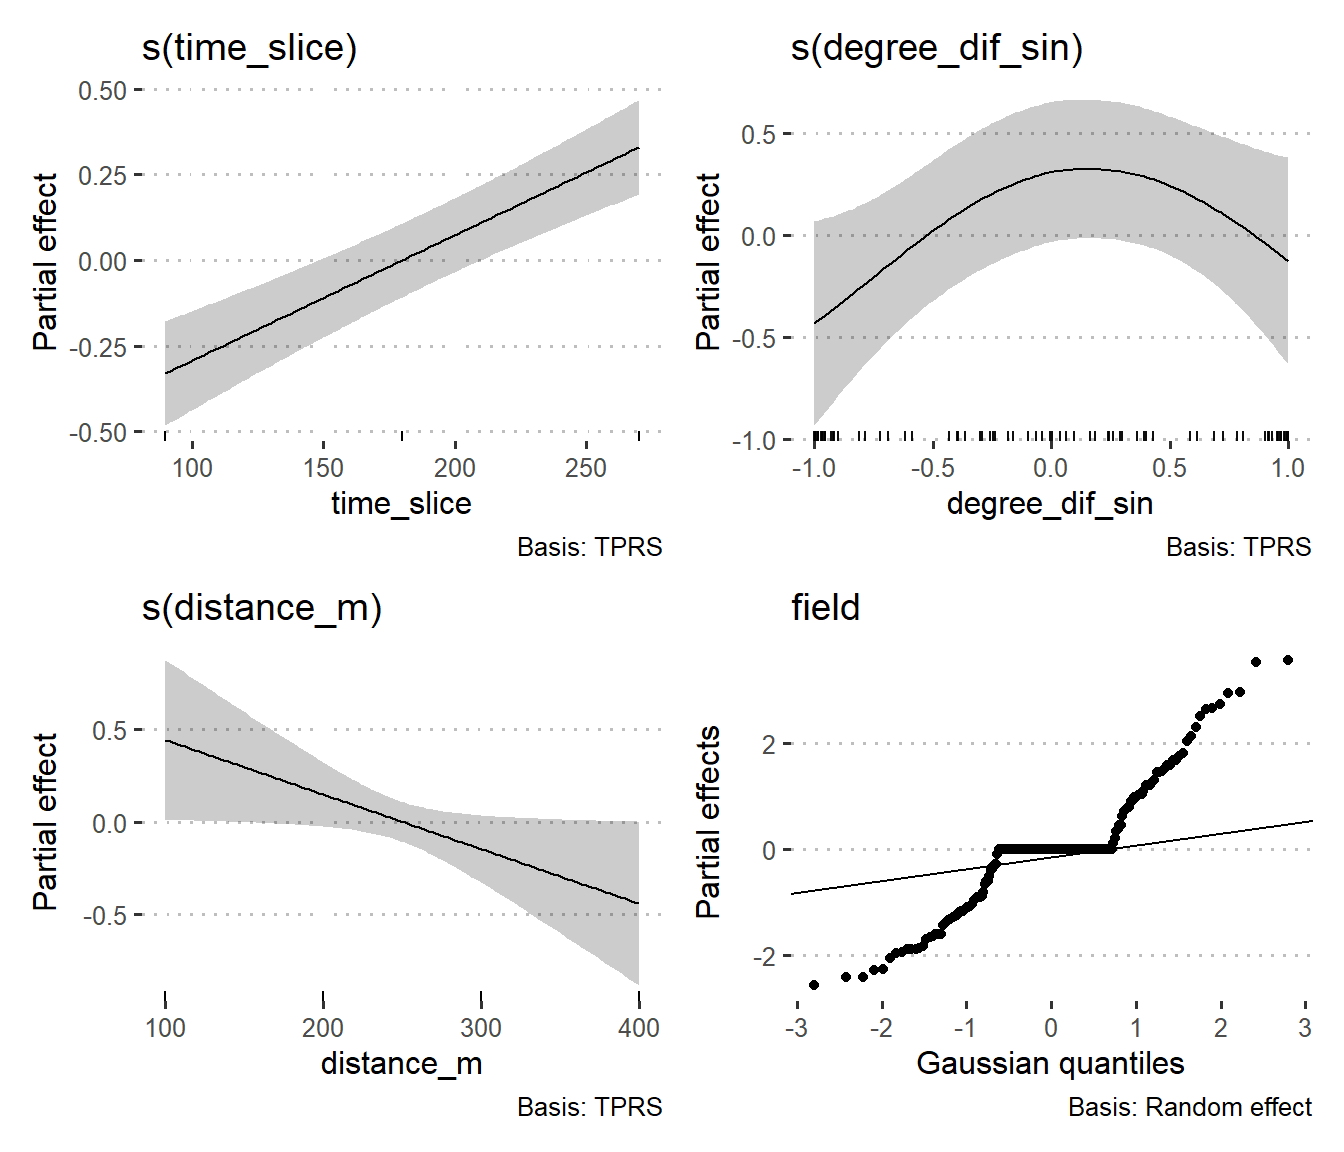
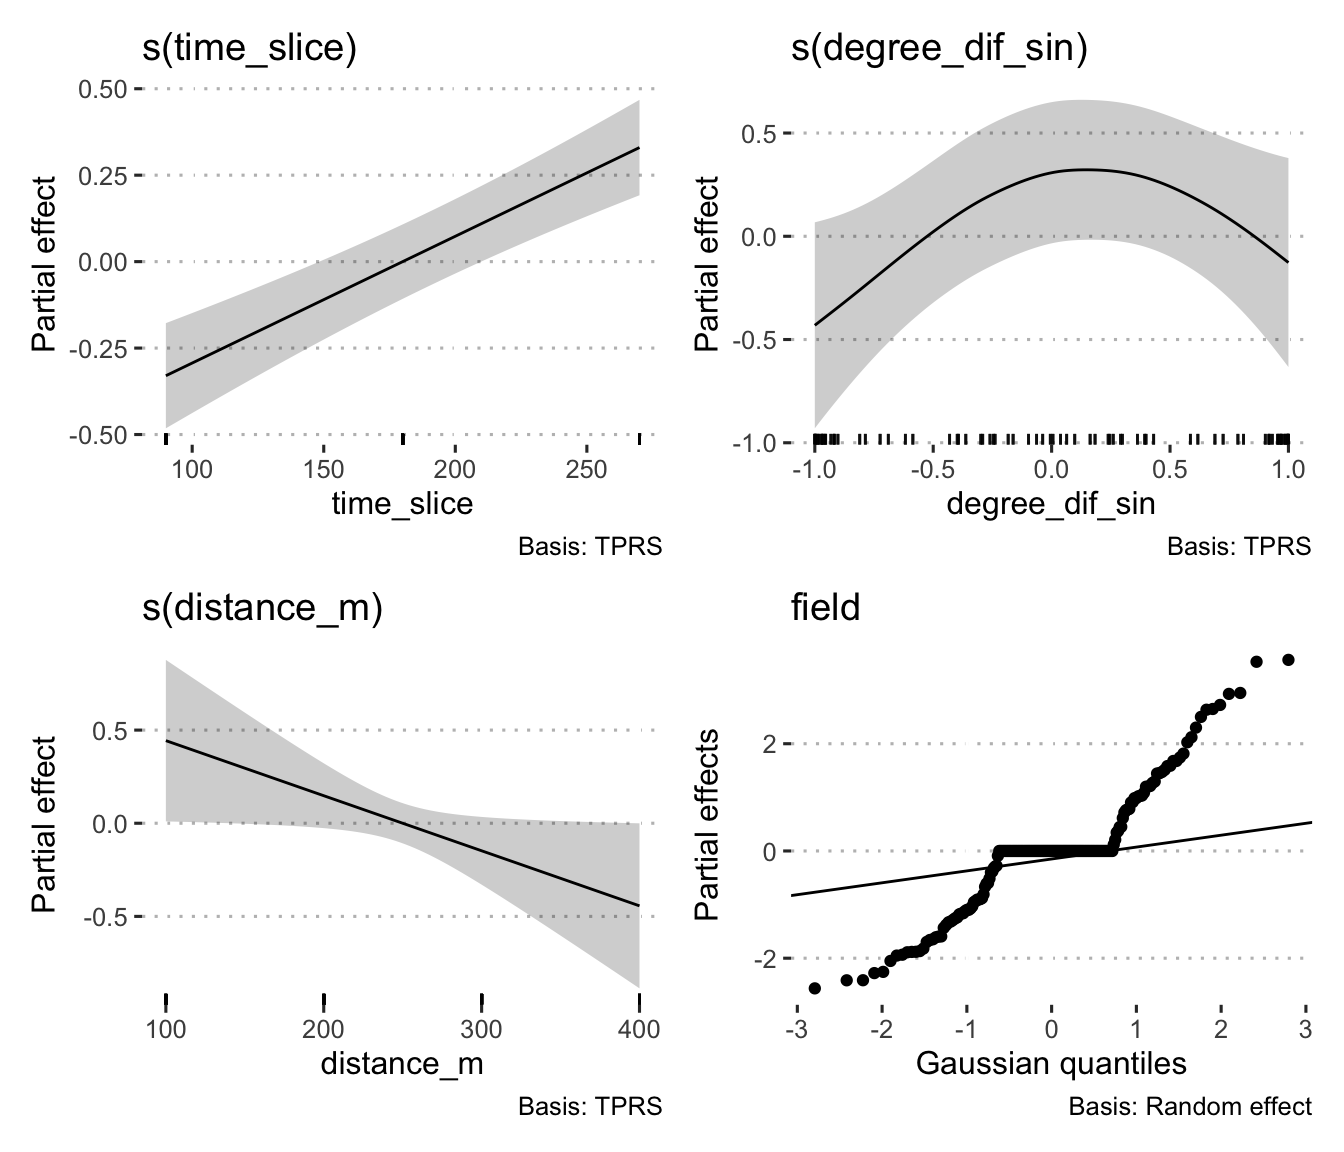
Update gam_model.Rmd to knit more easily and fix screenshot image

diff --git a/gam_model.html b/gam_model.html
@@ -401,6 +401,7 @@ theme_set(theme_pubclean())</code></pre>
 <div id="spore-proportion-chi-squared-analysis" class="section level2">
 <h2>Spore proportion chi-squared analysis</h2>
 <p>Check if the spore type, number of nuclei, affects the dispersal.</p>
+<p>(Manuscript´s section <code>Results/3.2</code>)</p>
 <pre class="r"><code>set.seed(3)
 read_csv(here(&quot;data/spore_type.csv&quot;),
          show_col_types = FALSE) %&gt;%
@@ -415,13 +416,17 @@ read_csv(here(&quot;data/spore_type.csv&quot;),
 ## 
 ## data:  .
 ## X-squared = 20.656, df = NA, p-value = 0.1959</code></pre>
+<p>The major spore type spread expected was the individual spore having
+a smaller spore size (18.8 µm); however, no statistical differences were
+recorded in spore type proportion at 0 m to 400 m downwind
+(P=0.1921).</p>
 </div>
 <div id="spore-dispersal-gam-model" class="section level2">
 <h2>Spore dispersal GAM Model</h2>
+<p>(Manuscript´s section <code>Results/3.3</code>)</p>
 <div id="load-data" class="section level3">
 <h3>Load data</h3>
-<pre class="r"><code>load(here(&quot;data/mod_dat.Rdata&quot;))
-load(here(&quot;data/newd.Rdata&quot;))</code></pre>
+<pre class="r"><code>load(here(&quot;data/mod_dat.Rdata&quot;))</code></pre>
 </div>
 <div id="inspect-the-mod_dat-object" class="section level3">
 <h3>Inspect the mod_dat object</h3>
@@ -438,19 +443,19 @@ load(here(&quot;data/newd.Rdata&quot;))</code></pre>
 ## # Groups:   field [6]
 ##    field trap_coord trap_degrees degree_dif wind_degrees wind_speed distance_m
 ##    &lt;fct&gt; &lt;chr&gt;             &lt;dbl&gt;      &lt;dbl&gt;        &lt;dbl&gt;      &lt;dbl&gt;      &lt;dbl&gt;
-##  1 1     N                     0     76.2          76.2        1.49        100
+##  1 1     N                     0    -76.2          76.2        1.49        100
 ##  2 1     E                    90     13.8          76.2        1.49        100
 ##  3 1     W                   270    194.           76.2        1.49        100
 ##  4 1     S                   180    104.           76.2        1.49        100
-##  5 2     N                     0    201.          201.         7.27        100
-##  6 2     E                    90    111.          201.         7.27        100
+##  5 2     N                     0   -201.          201.         7.27        100
+##  6 2     E                    90   -111.          201.         7.27        100
 ##  7 2     W                   270     68.7         201.         7.27        100
-##  8 2     S                   180     21.3         201.         7.27        100
-##  9 3     NE                   45     90.3         135.         2.93        100
-## 10 3     SE                  135      0.313       135.         2.93        100
+##  8 2     S                   180    -21.3         201.         7.27        100
+##  9 3     NE                   45    -90.3         135.         2.93        100
+## 10 3     SE                  135     -0.313       135.         2.93        100
 ## 11 3     NW                  315    180.          135.         2.93        100
 ## 12 3     SW                  225     89.7         135.         2.93        100
-## 13 4     N                     0     35.9          35.9        3.90        100
+## 13 4     N                     0    -35.9          35.9        3.90        100
 ## 14 4     E                    90     54.1          35.9        3.90        100
 ## 15 4     W                   270    234.           35.9        3.90        100
 ## 16 4     S                   180    144.           35.9        3.90        100
@@ -458,23 +463,27 @@ load(here(&quot;data/newd.Rdata&quot;))</code></pre>
 ## 18 5     SE                  135    105.           29.9        3.92        100
 ## 19 5     NW                  315    285.           29.9        3.92        100
 ## 20 5     SW                  225    195.           29.9        3.92        100
-## 21 6     N                     0      2.16          2.16       7.57        100
+## 21 6     N                     0     -2.16          2.16       7.57        100
 ## 22 6     E                    90     87.8           2.16       7.57        100
 ## 23 6     W                   270    268.            2.16       7.57        100
 ## 24 6     S                   180    178.            2.16       7.57        100</code></pre>
 <p>Based on the use of AIC to evaluate model fit to the data, the
 following model best fit the data with the smoothed time slice
 variables, <code>time_slice</code>; the wind direction in relation to
-the traps’ placement around the field in terms of absolute degrees,
-<em>i.e.</em> 0–180˚, <code>degree_dif</code>; the traps’ distance from
-the harvest field in meters, <code>distance_m</code>; and the field and
-traps themselves as a smoothed term random effect, <code>field</code>
-and <code>xy</code>.</p>
+the traps’ placement around the field in terms of degrees, <em>i.e.</em>
+0–360˚, <code>degree_dif</code>; the traps’ distance from the harvest
+field in meters, <code>distance_m</code>; and the field and traps
+themselves as a smoothed term random effect, <code>field</code> and
+<code>xy</code>.</p>
 <pre class="r"><code>mod_dat$xy &lt;- as.factor(paste(mod_dat$x, mod_dat$y))
+
+# create predictor degree diff as per Ben Bolker for circular predictors,
+# https://fediscience.org/@bbolker/110856805100981742, see Appendix for screenshot
+mod_dat$degree_dif_sin &lt;- sin(2 * pi * mod_dat$degree_dif / 360)
 
 m1 &lt;- gam(
   spore_cm2 ~ s(time_slice, k = 3) +
-    s(degree_dif, k = 72) +
+    s(degree_dif_sin, k = 72) +
     s(distance_m, k = 4) +
     s(field, xy, bs = &quot;re&quot;),
   data = mod_dat,
@@ -487,66 +496,66 @@ m1 &lt;- gam(
 <h3>Inspect Model m1</h3>
 <pre class="r"><code>m1</code></pre>
 <pre><code>## 
-## Family: Tweedie(p=1.507) 
+## Family: Tweedie(p=1.504) 
 ## Link function: log 
 ## 
 ## Formula:
-## spore_cm2 ~ s(time_slice, k = 3) + s(degree_dif, k = 72) + s(distance_m, 
-##     k = 4) + s(field, xy, bs = &quot;re&quot;)
+## spore_cm2 ~ s(time_slice, k = 3) + s(degree_dif_sin, k = 72) + 
+##     s(distance_m, k = 4) + s(field, xy, bs = &quot;re&quot;)
 ## 
 ## Estimated degrees of freedom:
-##  0.979  5.979  0.913 73.510  total = 82.38 
+##  0.978  1.658  0.808 84.401  total = 88.84 
 ## 
-## REML score: 668.1962</code></pre>
-<div id="check-model" class="section level4">
-<h4>Check model</h4>
+## REML score: 695.9045</code></pre>
+<div id="check-model-m1" class="section level4">
+<h4>Check model m1</h4>
 <pre class="r"><code>gam.check(m1)</code></pre>
 <p><img src="gam_model_files/figure-html/gam-check-m1-1.png" width="60%" /></p>
 <pre><code>## 
 ## Method: REML   Optimizer: outer newton
-## full convergence after 13 iterations.
-## Gradient range [-0.0001024571,0.00009857698]
-## (score 668.1962 &amp; scale 0.9445117).
-## Hessian positive definite, eigenvalue range [0.000005440034,216.4587].
+## full convergence after 11 iterations.
+## Gradient range [-0.0001281966,0.000115113]
+## (score 695.9045 &amp; scale 0.9504511).
+## Hessian positive definite, eigenvalue range [0.00001544762,220.5864].
 ## Model rank =  269 / 269 
 ## 
 ## Basis dimension (k) checking results. Low p-value (k-index&lt;1) may
 ## indicate that k is too low, especially if edf is close to k&#39;.
 ## 
-##                    k&#39;     edf k-index p-value  
-## s(time_slice)   2.000   0.978    0.89   0.165  
-## s(degree_dif)  71.000   5.979    0.84   0.035 *
-## s(distance_m)   3.000   0.913    1.01   0.875  
-## s(field,xy)   192.000  73.510      NA      NA  
+##                        k&#39;     edf k-index p-value  
+## s(time_slice)       2.000   0.978    0.91   0.325  
+## s(degree_dif_sin)  71.000   1.658    0.84   0.035 *
+## s(distance_m)       3.000   0.808    1.03   0.955  
+## s(field,xy)       192.000  84.401      NA      NA  
 ## ---
 ## Signif. codes:  0 &#39;***&#39; 0.001 &#39;**&#39; 0.01 &#39;*&#39; 0.05 &#39;.&#39; 0.1 &#39; &#39; 1</code></pre>
 <pre class="r"><code>summary(m1)</code></pre>
 <pre><code>## 
-## Family: Tweedie(p=1.507) 
+## Family: Tweedie(p=1.504) 
 ## Link function: log 
 ## 
 ## Formula:
-## spore_cm2 ~ s(time_slice, k = 3) + s(degree_dif, k = 72) + s(distance_m, 
-##     k = 4) + s(field, xy, bs = &quot;re&quot;)
+## spore_cm2 ~ s(time_slice, k = 3) + s(degree_dif_sin, k = 72) + 
+##     s(distance_m, k = 4) + s(field, xy, bs = &quot;re&quot;)
 ## 
 ## Parametric coefficients:
-##             Estimate Std. Error t value   Pr(&gt;|t|)    
-## (Intercept)   0.6843     0.1247   5.486 0.00000012 ***
+##             Estimate Std. Error t value Pr(&gt;|t|)    
+## (Intercept)   0.6869     0.1799   3.819 0.000179 ***
 ## ---
 ## Signif. codes:  0 &#39;***&#39; 0.001 &#39;**&#39; 0.01 &#39;*&#39; 0.05 &#39;.&#39; 0.1 &#39; &#39; 1
 ## 
 ## Approximate significance of smooth terms:
-##                   edf Ref.df      F              p-value    
-## s(time_slice)  0.9785      2  24.17 &lt; 0.0000000000000002 ***
-## s(degree_dif)  5.9786     71 133.10 &lt; 0.0000000000000002 ***
-## s(distance_m)  0.9132      3 411.31             0.000834 ***
-## s(field,xy)   73.5096     95   6.86 &lt; 0.0000000000000002 ***
+##                       edf Ref.df      F             p-value    
+## s(time_slice)      0.9780      2  22.39 &lt;0.0000000000000002 ***
+## s(degree_dif_sin)  1.6581     69  16.34              0.0591 .  
+## s(distance_m)      0.8082      3 677.92              0.0239 *  
+## s(field,xy)       84.4006     95  13.99 &lt;0.0000000000000002 ***
 ## ---
 ## Signif. codes:  0 &#39;***&#39; 0.001 &#39;**&#39; 0.01 &#39;*&#39; 0.05 &#39;.&#39; 0.1 &#39; &#39; 1
 ## 
-## R-sq.(adj) =  0.791   Deviance explained = 89.4%
-## -REML =  668.2  Scale est. = 0.94451   n = 288</code></pre>
-<p>The model fully converged after 16 iterations. All of the predictive
+## R-sq.(adj) =  0.785   Deviance explained = 89.6%
+## -REML =  695.9  Scale est. = 0.95045   n = 288</code></pre>
+<p>The model fully converged after 11 iterations. All of the predictive
 factors included were significant at <em>P</em> &gt; 0.05 and the
 smoothed predictors indicate a good fit with residuals being randomly
 distributed and enough basis functions for them to be properly fit. The
@@ -586,9 +595,9 @@ xy &lt;- unite(data = xy, col = &quot;xy&quot;)
 
 newd &lt;- expand_grid(
   time_slice = c(90, 180, 270),
-  degree_dif = 1:180,
+  degree_dif_sin = seq(from = 1, to = 360, by = 2),
   distance_m = dist,
-  wind_speed = 0:30,
+  wind_speed = seq(from = 0, to = 30, by = 2),
   x = dist,
   y = dist,
   xy = xy$xy,
@@ -596,9 +605,9 @@ newd &lt;- expand_grid(
 )
   
 newd$pred_spore_cm2 &lt;- predict(m1, newd)</code></pre>
-<p>Visualise the spore dispersal predictions for traps at 0m, 100m,
-200m, 300m, 400m around the harvest field for sampling times at 90, 180
-and 270 minutes after harvest started.</p>
+<p>Visualize the spore dispersal predictions for traps at 0 m, 100 m,
+200 m, 300 m, 400 m around the harvest field for sampling times at 90,
+180 and 270 minutes after harvest started.</p>
 <pre class="r"><code>predictions &lt;-
   newd %&gt;%
   mutate(pred_spore_cm2 = replace(pred_spore_cm2, pred_spore_cm2 &lt; 0, 0)) %&gt;%
@@ -616,6 +625,22 @@ predictions</code></pre>
   h = 2,
   scale = 1.2
 )</code></pre>
+</div>
+</div>
+<div id="appendix" class="section level2">
+<h2>Appendix</h2>
+<p>Screenshot of Ben Bolker’s Toot on fedscience.org regarding
+constructing a linear model with compass directions as predictor
+variables and how to handle this in the model.</p>
+<div class="float">
+<img src="images/BBolker_Toot.png"
+alt="“At a quick skim this looks like it’s mostly about circular response variables. In case this hasn’t occurred to you already, I think the simplest thing will be to use sin(direction), cos(direction) as predictors … (or more precisely sin(2pidir/360) etc. if your directions are in degrees …)”" />
+<div class="figcaption">“At a quick skim this looks like it’s mostly
+about circular <em>response</em> variables. In case this hasn’t occurred
+to you already, I think the simplest thing will be to use
+sin(direction), cos(direction) as predictors … (or more precisely
+sin(2<em>pi</em>dir/360) etc. if your directions are in degrees
+…)”</div>
 </div>
 </div>
 
